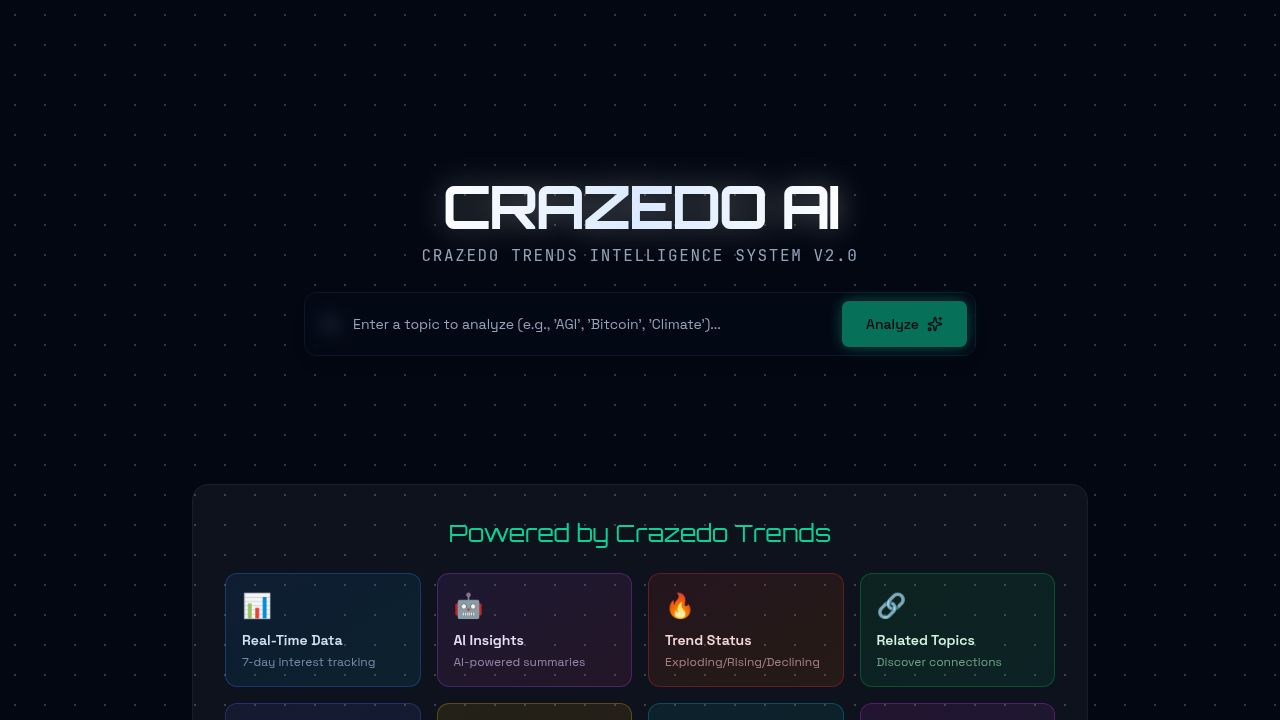
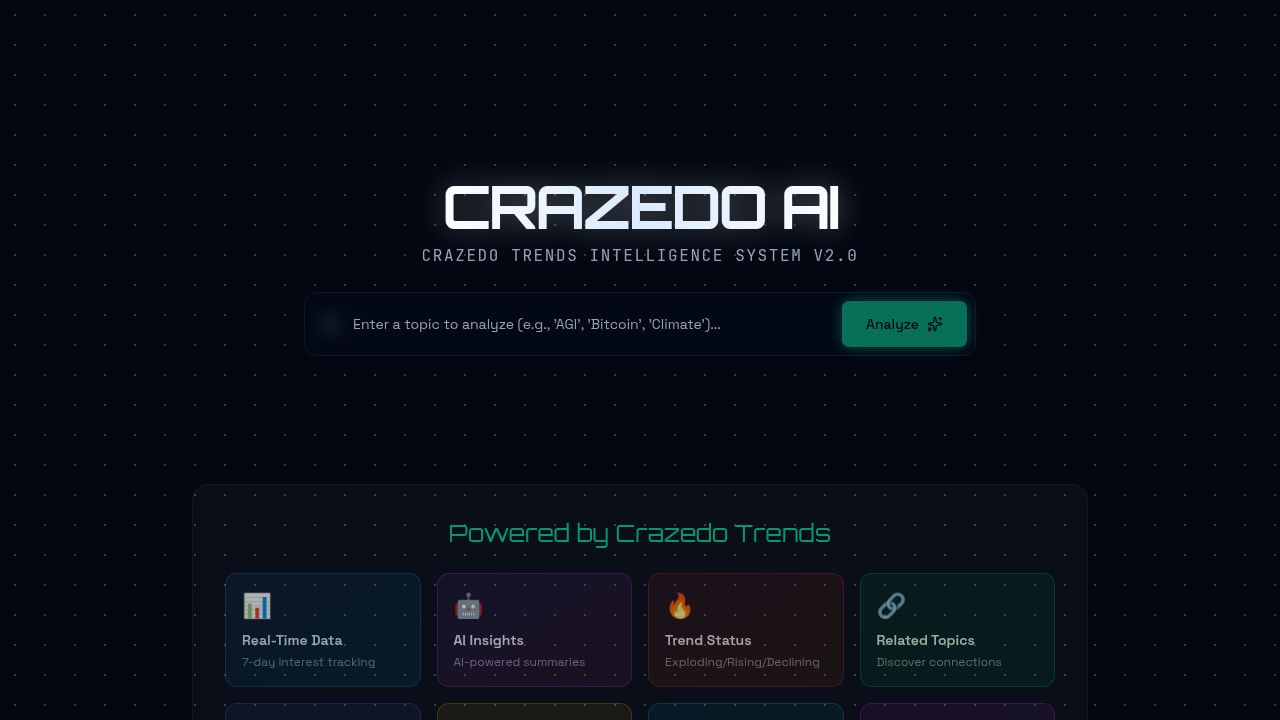
Improve website SEO and legal compliance with essential meta tags and pages
Adds SEO meta tags, JSON-LD structured data, robots.txt, sitemap.xml, legal footer links, and placeholder pages for Privacy Policy, Terms of Service, and Contact. Enforces HTTPS and www to root domain redirects. Defers JavaScript loading and adds lazy loading for non-critical elements.

Replit-Commit-Author: Agent
Replit-Commit-Session-Id: 6b257176-e409-4eb5-84fc-8e4ff54bb2fb
Replit-Commit-Checkpoint-Type: intermediate_checkpoint
Replit-Commit-Event-Id: c06a5997-ca60-43a6-b221-f64588bcaf96
Replit-Commit-Screenshot-Url: https://storage.googleapis.com/screenshot-production-us-central1/670e5098-6651-4ee7-a7ab-e3f02323c6df/6b257176-e409-4eb5-84fc-8e4ff54bb2fb/mME8ZEz

diff --git a/client/index.html b/client/index.html
@@ -3,16 +3,44 @@
   <head>
     <meta charset="UTF-8" />
     <meta name="viewport" content="width=device-width, initial-scale=1.0, maximum-scale=1" />
-
-    <meta property="og:title" content="Crazedo AI Trend Analyzer" />
-    <meta property="og:description" content="Real-time AI-powered trend analysis powered by Google Trends. Search any topic and get instant insights with optional AI summaries." />
+    
+    <title>Crazedo AI 2.0 – Live Trend Intelligence Platform</title>
+    <meta name="description" content="Crazedo AI 2.0 is a real-time trend intelligence platform analyzing Google search trends plus live fashion and AI signals." />
+    
+    <link rel="canonical" href="https://crazedoai.com" />
+    <meta name="robots" content="index, follow" />
+    
+    <meta property="og:title" content="Crazedo AI 2.0 – Live Trend Intelligence Platform" />
+    <meta property="og:description" content="Crazedo AI 2.0 is a real-time trend intelligence platform analyzing Google search trends plus live fashion and AI signals." />
+    <meta property="og:url" content="https://crazedoai.com" />
     <meta property="og:type" content="website" />
     <meta property="og:image" content="https://replit.com/public/images/opengraph.png" />
+    
     <meta name="twitter:card" content="summary_large_image" />
     <meta name="twitter:site" content="@replit" />
-    <meta name="twitter:title" content="Crazedo AI Trend Analyzer" />
-    <meta name="twitter:description" content="Real-time AI-powered trend analysis powered by Google Trends. Search any topic and get instant insights with optional AI summaries." />
+    <meta name="twitter:title" content="Crazedo AI 2.0 – Live Trend Intelligence Platform" />
+    <meta name="twitter:description" content="Crazedo AI 2.0 is a real-time trend intelligence platform analyzing Google search trends plus live fashion and AI signals." />
     <meta name="twitter:image" content="https://replit.com/public/images/opengraph.png" />
+
+    <script type="application/ld+json">
+    {
+      "@context": "https://schema.org",
+      "@graph": [
+        {
+          "@type": "WebSite",
+          "name": "Crazedo AI",
+          "url": "https://crazedoai.com",
+          "description": "AI-powered platform for real-time trend monitoring and analytics."
+        },
+        {
+          "@type": "Organization",
+          "name": "Crazedo AI",
+          "url": "https://crazedoai.com",
+          "description": "AI-powered platform for real-time trend monitoring and analytics."
+        }
+      ]
+    }
+    </script>
 
     <link rel="icon" type="image/png" href="/favicon.png" />
     <link rel="preconnect" href="https://fonts.googleapis.com">
@@ -21,6 +49,6 @@
   </head>
   <body>
     <div id="root"></div>
-    <script type="module" src="/src/main.tsx"></script>
+    <script type="module" src="/src/main.tsx" defer></script>
   </body>
 </html>

diff --git a/client/src/pages/terms.tsx b/client/src/pages/terms.tsx
@@ -1,0 +1,50 @@
+import { Link } from "wouter";
+import { ArrowLeft } from "lucide-react";
+
+export default function Terms() {
+  return (
+    <div className="min-h-screen w-full bg-[radial-gradient(ellipse_at_top,_var(--tw-gradient-stops))] from-slate-900 via-slate-950 to-black text-foreground p-4 md:p-8">
+      <div className="max-w-3xl mx-auto">
+        <Link href="/" className="inline-flex items-center gap-2 text-muted-foreground hover:text-foreground mb-8" data-testid="link-back-home">
+          <ArrowLeft className="w-4 h-4" />
+          Back to Home
+        </Link>
+        
+        <h1 className="text-3xl font-bold mb-6">Terms of Service</h1>
+        <p className="text-muted-foreground mb-4">Last updated: January 2025</p>
+        
+        <div className="space-y-6 text-sm text-muted-foreground">
+          <section>
+            <h2 className="text-lg font-semibold text-foreground mb-2">1. Acceptance of Terms</h2>
+            <p>By accessing and using Crazedo AI, you accept and agree to be bound by these Terms of Service. If you do not agree to these terms, please do not use our service.</p>
+          </section>
+          
+          <section>
+            <h2 className="text-lg font-semibold text-foreground mb-2">2. Description of Service</h2>
+            <p>Crazedo AI provides real-time trend intelligence and analytics services. The platform analyzes public data from various sources to provide trend insights and AI-powered summaries.</p>
+          </section>
+          
+          <section>
+            <h2 className="text-lg font-semibold text-foreground mb-2">3. Use of Service</h2>
+            <p>You agree to use the service only for lawful purposes and in accordance with these Terms. You may not use the service to harm, abuse, or harass others.</p>
+          </section>
+          
+          <section>
+            <h2 className="text-lg font-semibold text-foreground mb-2">4. Intellectual Property</h2>
+            <p>The service and its original content, features, and functionality are owned by Crazedo AI and are protected by international copyright, trademark, and other intellectual property laws.</p>
+          </section>
+          
+          <section>
+            <h2 className="text-lg font-semibold text-foreground mb-2">5. Disclaimer</h2>
+            <p>The service is provided "as is" without warranties of any kind. Trend data and AI-generated insights are for informational purposes only and should not be considered professional advice.</p>
+          </section>
+          
+          <section>
+            <h2 className="text-lg font-semibold text-foreground mb-2">6. Contact</h2>
+            <p>For questions about these Terms, please contact us through our <Link href="/contact" className="text-primary hover:underline">Contact page</Link>.</p>
+          </section>
+        </div>
+      </div>
+    </div>
+  );
+}

diff --git a/client/src/pages/privacy.tsx b/client/src/pages/privacy.tsx
@@ -1,0 +1,45 @@
+import { Link } from "wouter";
+import { ArrowLeft } from "lucide-react";
+
+export default function Privacy() {
+  return (
+    <div className="min-h-screen w-full bg-[radial-gradient(ellipse_at_top,_var(--tw-gradient-stops))] from-slate-900 via-slate-950 to-black text-foreground p-4 md:p-8">
+      <div className="max-w-3xl mx-auto">
+        <Link href="/" className="inline-flex items-center gap-2 text-muted-foreground hover:text-foreground mb-8" data-testid="link-back-home">
+          <ArrowLeft className="w-4 h-4" />
+          Back to Home
+        </Link>
+        
+        <h1 className="text-3xl font-bold mb-6">Privacy Policy</h1>
+        <p className="text-muted-foreground mb-4">Last updated: January 2025</p>
+        
+        <div className="space-y-6 text-sm text-muted-foreground">
+          <section>
+            <h2 className="text-lg font-semibold text-foreground mb-2">1. Information We Collect</h2>
+            <p>Crazedo AI collects minimal information necessary to provide our trend intelligence services. This may include search queries you submit and basic usage analytics to improve our platform.</p>
+          </section>
+          
+          <section>
+            <h2 className="text-lg font-semibold text-foreground mb-2">2. How We Use Your Information</h2>
+            <p>We use the information we collect to provide, maintain, and improve our services. We do not sell your personal information to third parties.</p>
+          </section>
+          
+          <section>
+            <h2 className="text-lg font-semibold text-foreground mb-2">3. Data Security</h2>
+            <p>We implement appropriate technical and organizational measures to protect your data against unauthorized access, alteration, or destruction.</p>
+          </section>
+          
+          <section>
+            <h2 className="text-lg font-semibold text-foreground mb-2">4. Third-Party Services</h2>
+            <p>Our platform may integrate with third-party services such as Google Trends and OpenAI. These services have their own privacy policies that govern their use of your data.</p>
+          </section>
+          
+          <section>
+            <h2 className="text-lg font-semibold text-foreground mb-2">5. Contact Us</h2>
+            <p>If you have questions about this Privacy Policy, please contact us through our <Link href="/contact" className="text-primary hover:underline">Contact page</Link>.</p>
+          </section>
+        </div>
+      </div>
+    </div>
+  );
+}

diff --git a/client/src/pages/contact.tsx b/client/src/pages/contact.tsx
@@ -1,0 +1,37 @@
+import { Link } from "wouter";
+import { ArrowLeft, Mail } from "lucide-react";
+
+export default function Contact() {
+  return (
+    <div className="min-h-screen w-full bg-[radial-gradient(ellipse_at_top,_var(--tw-gradient-stops))] from-slate-900 via-slate-950 to-black text-foreground p-4 md:p-8">
+      <div className="max-w-3xl mx-auto">
+        <Link href="/" className="inline-flex items-center gap-2 text-muted-foreground hover:text-foreground mb-8" data-testid="link-back-home">
+          <ArrowLeft className="w-4 h-4" />
+          Back to Home
+        </Link>
+        
+        <h1 className="text-3xl font-bold mb-6">Contact Us</h1>
+        
+        <div className="space-y-6 text-sm text-muted-foreground">
+          <section>
+            <p className="mb-4">We'd love to hear from you. If you have questions, feedback, or inquiries about Crazedo AI, please reach out to us.</p>
+            
+            <div className="p-6 rounded-xl bg-card/40 border border-white/5">
+              <div className="flex items-center gap-3 mb-4">
+                <Mail className="w-5 h-5 text-primary" />
+                <h2 className="text-lg font-semibold text-foreground">Get in Touch</h2>
+              </div>
+              <p className="mb-2">For general inquiries and support:</p>
+              <a href="mailto:contact@crazedoai.com" className="text-primary hover:underline" data-testid="link-email">contact@crazedoai.com</a>
+            </div>
+          </section>
+          
+          <section>
+            <h2 className="text-lg font-semibold text-foreground mb-2">Response Time</h2>
+            <p>We aim to respond to all inquiries within 1-2 business days.</p>
+          </section>
+        </div>
+      </div>
+    </div>
+  );
+}

diff --git a/client/src/App.tsx b/client/src/App.tsx
@@ -1,4 +1,5 @@
 import { Switch, Route } from "wouter";
+import { lazy, Suspense } from "react";
 import { queryClient } from "./lib/queryClient";
 import { QueryClientProvider } from "@tanstack/react-query";
 import { Toaster } from "@/components/ui/toaster";
@@ -6,10 +7,25 @@ import { TooltipProvider } from "@/components/ui/tooltip";
 import NotFound from "@/pages/not-found";
 import Home from "@/pages/home";
 
+const Privacy = lazy(() => import("@/pages/privacy"));
+const Terms = lazy(() => import("@/pages/terms"));
+const Contact = lazy(() => import("@/pages/contact"));
+
+function LazyPage({ component: Component }: { component: React.LazyExoticComponent<React.ComponentType> }) {
+  return (
+    <Suspense fallback={<div className="min-h-screen bg-slate-950" />}>
+      <Component />
+    </Suspense>
+  );
+}
+
 function Router() {
   return (
     <Switch>
       <Route path="/" component={Home} />
+      <Route path="/privacy">{() => <LazyPage component={Privacy} />}</Route>
+      <Route path="/terms">{() => <LazyPage component={Terms} />}</Route>
+      <Route path="/contact">{() => <LazyPage component={Contact} />}</Route>
       <Route component={NotFound} />
     </Switch>
   );

diff --git a/client/src/pages/home.tsx b/client/src/pages/home.tsx
@@ -1,4 +1,5 @@
 import { useState, useEffect, useRef } from "react";
+import { Link } from "wouter";
 import { SearchInput } from "@/components/search-input";
 import { TrendDashboard } from "@/components/trend-dashboard";
 import { analyzeTrend, TrendData } from "@/lib/api";
@@ -239,6 +240,17 @@ export default function Home() {
           )}
         </div>
       </div>
+
+      <footer className="relative z-10 mt-auto pt-12 pb-6 border-t border-white/5">
+        <div className="max-w-7xl mx-auto px-4 flex flex-col md:flex-row items-center justify-between gap-4 text-sm text-muted-foreground">
+          <div className="flex items-center gap-6">
+            <Link href="/privacy" className="hover:text-foreground transition" data-testid="link-privacy">Privacy Policy</Link>
+            <Link href="/terms" className="hover:text-foreground transition" data-testid="link-terms">Terms of Service</Link>
+            <Link href="/contact" className="hover:text-foreground transition" data-testid="link-contact">Contact</Link>
+          </div>
+          <p data-testid="text-copyright">&copy; 2025 Crazedo AI</p>
+        </div>
+      </footer>
     </div>
   );
 }

diff --git a/server/app.ts b/server/app.ts
@@ -16,6 +16,21 @@ export function log(message: string, source = "express") {
 
 export const app = express();
 
+app.use((req: Request, res: Response, next: NextFunction) => {
+  if (process.env.NODE_ENV === 'production') {
+    const proto = req.headers['x-forwarded-proto'];
+    if (proto && proto !== 'https') {
+      return res.redirect(301, `https://${req.headers.host}${req.url}`);
+    }
+    
+    const host = req.headers.host || '';
+    if (host.startsWith('www.')) {
+      return res.redirect(301, `https://${host.replace('www.', '')}${req.url}`);
+    }
+  }
+  next();
+});
+
 declare module 'http' {
   interface IncomingMessage {
     rawBody: unknown
